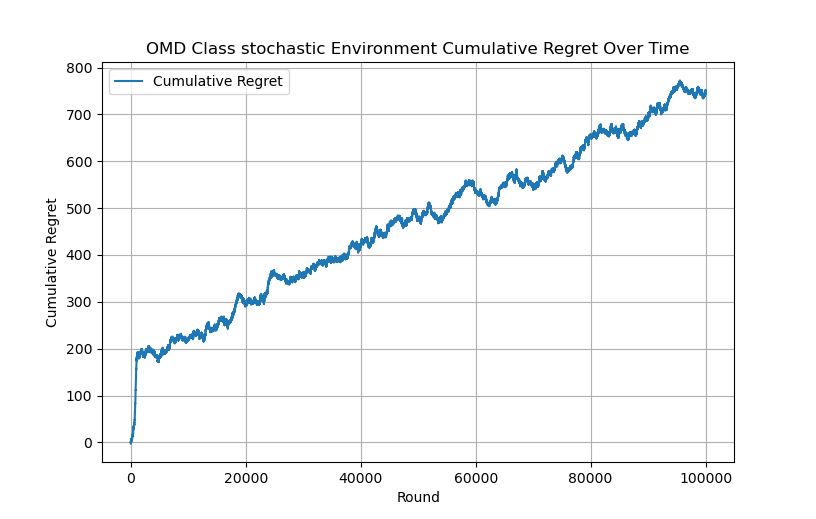
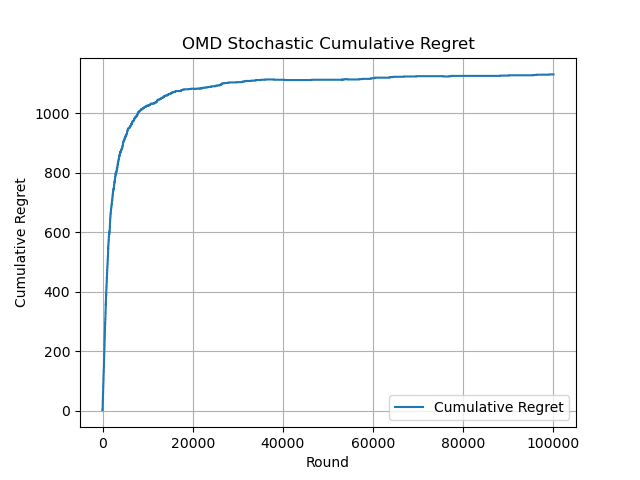
omd stochastic is shwya weird mdri

diff --git a/omd/omdstochastic.py b/omd/omdstochastic.py
@@ -9,99 +9,103 @@ class stochastic_OMD_Environment:
         self.normalization_factor = 200*math.sqrt(10)
         self.estimated_loss_vector = np.zeros(number_of_arms)
         self.number_of_arms = number_of_arms
-        self.arm_means = np.random.binomial(0.1, 0.9, number_of_arms)
+        self.best_arm = random.randint(0, number_of_arms - 1)
     
     def newtons_approximation_for_arm_weights(self, normalization_factor, estimated_loss_vector, learning_rate):
         weights_for_arms = np.zeros(number_of_arms)
         epsilon = 1.0e-9
         previous_normalization_factor = normalization_factor
         updated_normalization_factor = normalization_factor
-        # while True:
-        for arm in range(number_of_arms):
-                    inner_product = abs((learning_rate * (estimated_loss_vector[arm] - updated_normalization_factor)))
-                    exponent_of_inner_product = math.pow(((inner_product + epsilon)), -2)
-                    weight_of_arm = 4 * exponent_of_inner_product
-                    weights_for_arms[arm] = weight_of_arm
-            # sum_of_weights = sum(weights_for_arms)
-            # numerator = sum_of_weights - 1
-            # sum_of_arms_taken_to_power = 0
-            # for arm_weight in range(number_of_arms):
-            #     updated_normalization_factor_arm_weight = math.pow(weights_for_arms[arm_weight], 3/2)
-            #     sum_of_arms_taken_to_power += updated_normalization_factor_arm_weight
-            # denominator = (learning_rate * sum_of_arms_taken_to_power) + epsilon
-            # updated_normalization_factor = previous_normalization_factor - (numerator / denominator)
-            # difference_in_normalization_factors = abs(updated_normalization_factor - previous_normalization_factor)
-            # previous_normalization_factor = updated_normalization_factor
-            # if(difference_in_normalization_factors < epsilon):
-            #     break
-            # else:
-            #     continue
+        while True:
+            for arm in range(number_of_arms):
+                inner_product = abs((learning_rate * (estimated_loss_vector[arm] - updated_normalization_factor)))
+                exponent_of_inner_product = math.pow(((inner_product + epsilon)), -2)
+                weight_of_arm = 4 * exponent_of_inner_product
+                weights_for_arms[arm] = weight_of_arm
+            sum_of_weights = sum(weights_for_arms)
+            numerator = sum_of_weights - 1
+            sum_of_arms_taken_to_power = 0
+            for arm_weight in range(number_of_arms):
+                updated_normalization_factor_arm_weight = math.pow(weights_for_arms[arm_weight], 3/2)
+                sum_of_arms_taken_to_power += updated_normalization_factor_arm_weight
+            denominator = (learning_rate * sum_of_arms_taken_to_power) + epsilon
+            updated_normalization_factor = previous_normalization_factor - (numerator / denominator)
+            difference_in_normalization_factors = abs(updated_normalization_factor - previous_normalization_factor)
+            previous_normalization_factor = updated_normalization_factor
+            if(difference_in_normalization_factors < epsilon):
+                break
+            else:
+                continue
         return weights_for_arms, updated_normalization_factor
-    
-    def normalizingWeights(self, weights_for_arms):
-        weights_of_arms, self.normalization_factor = self.newtons_approximation_for_arm_weights(self.normalization_factor, self.estimated_loss_vector, self.learning_rate)
-        sum_of_weights = sum(weights_of_arms)
-        for arm_weight in range(number_of_arms):
-            normalized_arm_weight = weights_of_arms[arm_weight] / sum_of_weights
-            weights_of_arms[arm_weight] = normalized_arm_weight
-        return weights_of_arms
 
     def selectArm(self):
         weights_of_arms, self.normalization_factor = self.newtons_approximation_for_arm_weights(self.normalization_factor, self.estimated_loss_vector, self.learning_rate)
-        normalized_weights = self.normalizingWeights(weights_of_arms)
-        #action_chosen = np.random.choice(number_of_arms, p=weights_of_arms)
-        action_chosen = np.random.choice(number_of_arms, p=normalized_weights)
+        action_chosen = np.random.choice(number_of_arms, p = weights_of_arms)
         return action_chosen
     
+    def update_best_arm(self):
+        return self.best_arm
     
-    def getLoss(self, chosen_arm):
-        best_arm = np.argmax(self.arm_means)
-        probablity = random.random()
-        loss = 0
-        if chosen_arm == best_arm:
-            if probablity < 0.7:
-                loss += 1
-            else:
-                loss += 0
-        else:
-            if probablity < 0.3:
-                loss += 1
-            else:
-                loss += 0
-        return loss
-    
-    def updateLossVector(self, chosen_arm, loss):
+    def updateLossVector(self, chosen_arm, loss_vector):
         weights_of_arms, self.normalization_factor = self.newtons_approximation_for_arm_weights(self.normalization_factor, self.estimated_loss_vector, self.learning_rate)
-        normalized_weights = self.normalizingWeights(weights_of_arms)
-        if normalized_weights[chosen_arm] > 0:
-            #new_loss_estimate = loss / weights_of_arms[chosen_arm]
-            new_loss_estimate = loss / normalized_weights[chosen_arm]
+        if weights_of_arms[chosen_arm] > 0:
+            new_loss_estimate = loss_vector[chosen_arm] / weights_of_arms[chosen_arm]
         else:
             new_loss_estimate = 0
         self.estimated_loss_vector[chosen_arm] += new_loss_estimate
 
-learning_rate = 0.005
 number_of_arms = 10
 time_horizon = 100000
-simulations = 1
+learning_rate = 0.008
 
-for simulation in range(simulations):
-    omd_stochastic = stochastic_OMD_Environment(learning_rate, number_of_arms)
-    regrets = []
-    cumulative_loss = 0
+stochasticExp3Environment = stochastic_OMD_Environment(learning_rate, number_of_arms)
+best_arm = stochasticExp3Environment.update_best_arm()
 
-    for round_played in range(time_horizon):
-        chosen_arm = omd_stochastic.selectArm()
-        loss = omd_stochastic.getLoss(chosen_arm)
-        cumulative_loss += loss
-        omd_stochastic.updateLossVector(chosen_arm, loss)
-        optimal_loss = (round_played + 1) * 0.3
-        regrets.append(cumulative_loss - optimal_loss)
+losses_for_all_rounds = np.zeros((time_horizon, number_of_arms))
+for round_played in range(time_horizon):
+    losses_for_each_round = np.zeros(number_of_arms)
+    for arm in range(number_of_arms):
+        loss_of_arm = 0
+        probability = random.random()
+        if arm == best_arm:
+            if probability < 0.8:
+                loss_of_arm += 0
+            else:
+                loss_of_arm += 1
+        else:
+            if probability < 0.2:
+                loss_of_arm += 0
+            else:
+                loss_of_arm += 1
+        losses_for_each_round[arm] = loss_of_arm
+    losses_for_all_rounds[round_played] = losses_for_each_round
+    
+best_arms_in_each_round = []
+for loss_vector in range(len(losses_for_all_rounds)):
+    best_arm_in_this_round = np.argmin(losses_for_all_rounds[loss_vector])
+    best_arms_in_each_round.append(best_arm_in_this_round)
+frequency_of_each_best_arm = np.bincount(best_arms_in_each_round)
+optimal_arm = np.argmax(frequency_of_each_best_arm)
+
+cumulative_optimal_loss = 0
+cumulative_loss = 0
+regrets = []
+
+for round_loss_vector in range(len(losses_for_all_rounds)):
+    this_rounds_loss_vector = losses_for_all_rounds[round_loss_vector]
+    chosen_arm = stochasticExp3Environment.selectArm()
+    stochasticExp3Environment.updateLossVector(chosen_arm, this_rounds_loss_vector)
+    optimal_loss = this_rounds_loss_vector[optimal_arm]
+    actual_loss = this_rounds_loss_vector[chosen_arm]
+    cumulative_optimal_loss += optimal_loss
+    cumulative_loss += actual_loss
+    regret_for_this_round = cumulative_loss - cumulative_optimal_loss
+    regrets.append(regret_for_this_round)
 
 plt.plot(regrets, label='Cumulative Regret')
 plt.xlabel('Round')
 plt.ylabel('Cumulative Regret')
-plt.title("OMD Class stochastic Environment Cumulative Regret Over Time")
+plt.title("OMD Stochastic Cumulative Regret")
 plt.legend()
 plt.grid()
 plt.show()

diff --git a/misc/nocomments.py b/misc/nocomments.py
@@ -45,7 +45,7 @@ class Adversarial_OMD_Environment:
     
     def update_best_arm(self):
         probability = random.random()
-        if probability < 0.35:
+        if probability < 0.7:
             best_arm = random.randint(0, number_of_arms - 1)
         else:
             best_arm = self.best_arm
